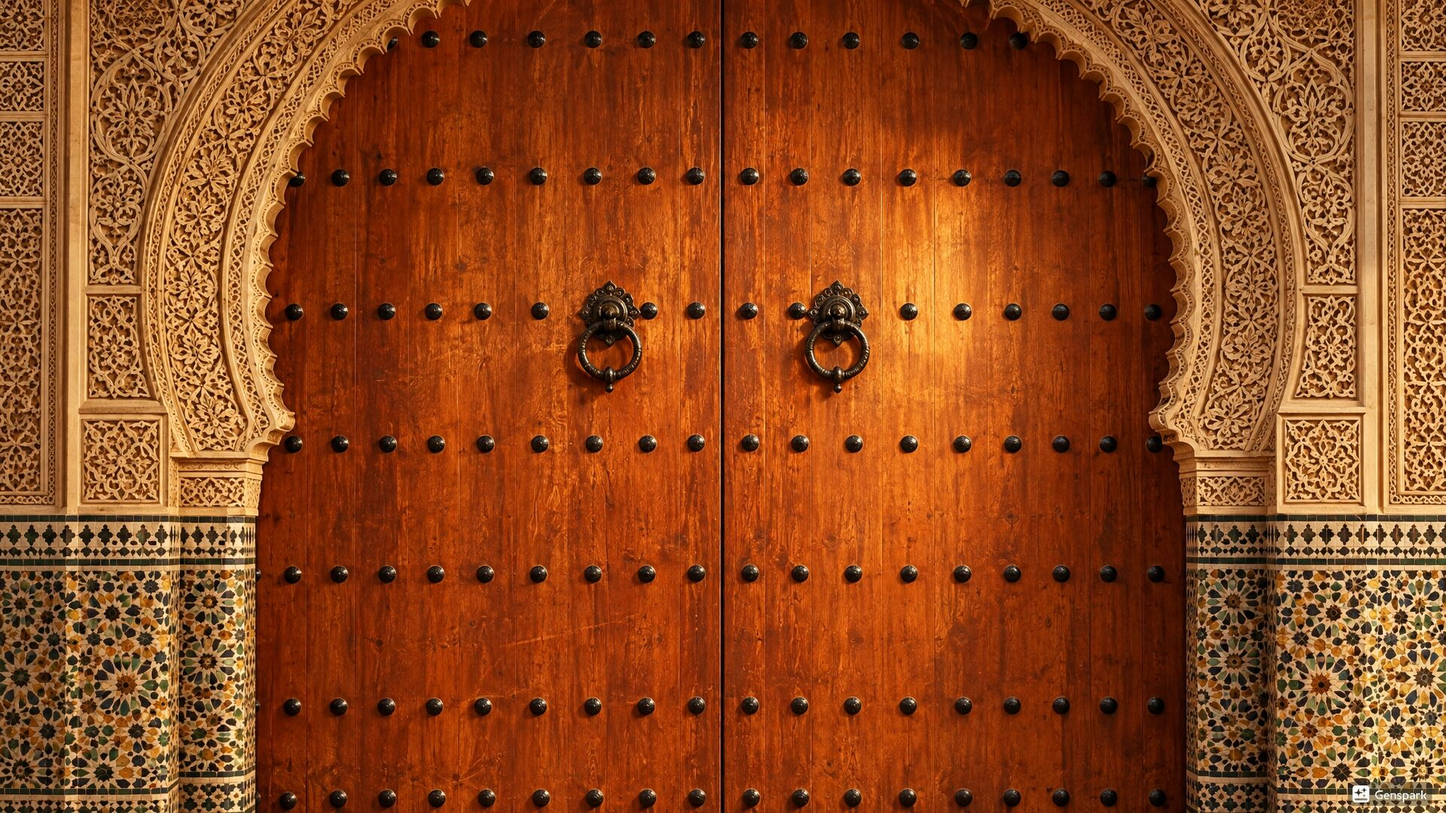
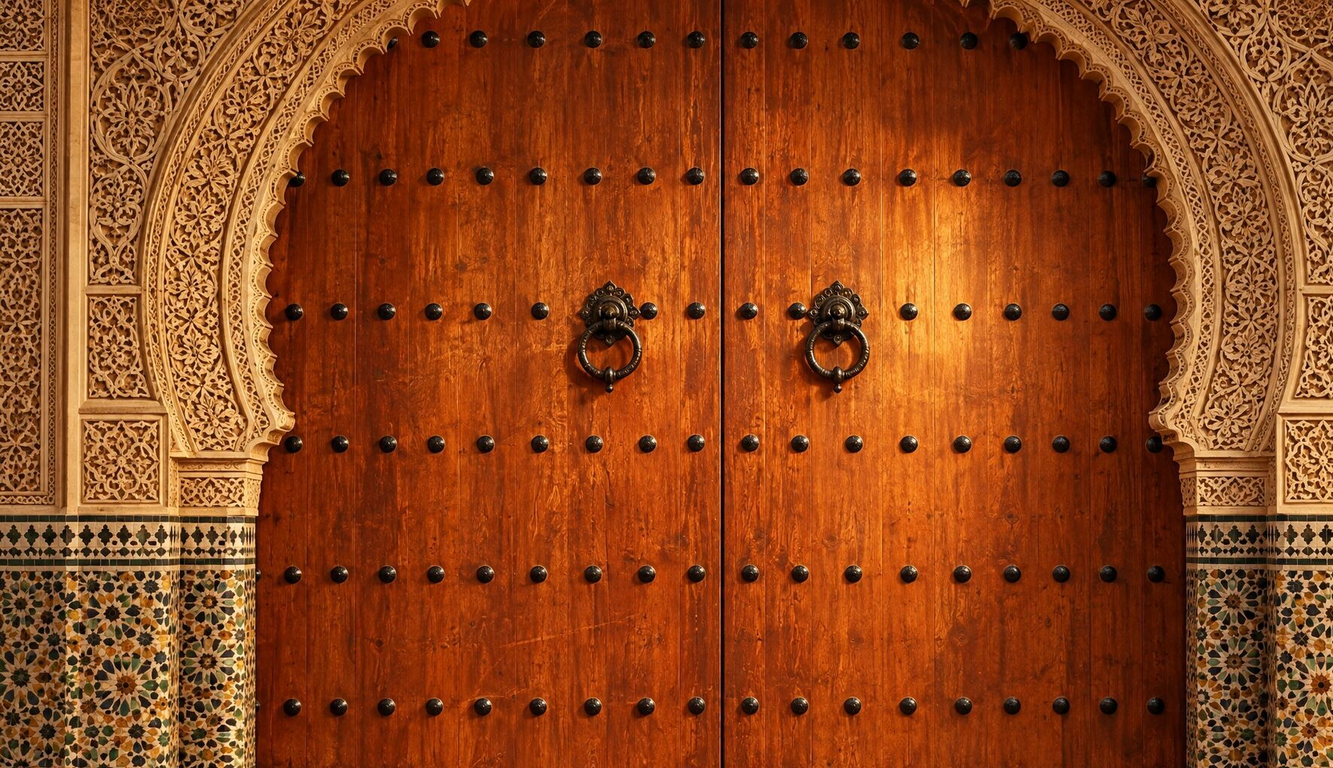
Move music credit to footer, remove watermark from portal photos

diff --git a/index.html b/index.html
@@ -37,7 +37,6 @@
   </button>
 
   <div class="bottom"><span>دار الياسمين</span><span>المغرب</span></div>
-  <a class="music-credit" href="https://freemusicarchive.org/music/timtaj/single/arabic-oud/" target="_blank" rel="noopener">الموسيقى: Arabic Oud — TimTaj · CC BY-NC-ND 4.0</a>
 </header>
 <button type="button" id="sound-toggle" class="sound-toggle" aria-pressed="false" hidden>
   <svg viewBox="0 0 24 24" width="20" height="20" fill="none" stroke="currentColor" stroke-width="1.7" stroke-linecap="round" stroke-linejoin="round" aria-hidden="true"><path d="M11 5 6 9H3v6h3l5 4Z"/><path class="sound-waves" d="M15 9a4 4 0 0 1 0 6m3-9a8 8 0 0 1 0 12"/><path class="sound-cross" d="m16 10 5 5m0-5-5 5"/></svg>
@@ -117,6 +116,7 @@
   <div class="rule" aria-hidden="true">✦</div>
   <p class="sign">ليلى وآدم</p>
   <a href="#cover" id="replay">العودة إلى الغلاف ↑</a>
+  <p class="music-credit">الموسيقى: <a href="https://freemusicarchive.org/music/timtaj/single/arabic-oud/" target="_blank" rel="noopener">Arabic Oud — TimTaj</a> · CC BY-NC-ND 4.0</p>
 </footer>
 </body>
 </html>

diff --git a/style.css b/style.css
@@ -139,5 +139,6 @@ main:focus{outline:none}
 .sound-toggle{position:fixed;z-index:12;inset-inline-start:max(12px,env(safe-area-inset-right));bottom:max(12px,env(safe-area-inset-bottom));display:inline-flex;align-items:center;gap:.45rem;padding:0 .8rem;min-height:44px;border:1px solid #e7c78e99;border-radius:999px;background:#13251df5;color:#fff0cb;font:inherit;cursor:pointer;box-shadow:0 3px 12px #0004}
 .sound-toggle:focus-visible{outline:3px solid #e7c78e;outline-offset:3px}
 .sound-toggle[aria-pressed="false"] .sound-waves,.sound-toggle[aria-pressed="true"] .sound-cross{display:none}
-.music-credit{position:absolute;z-index:7;bottom:5px;inset-inline:0;width:max-content;max-width:95%;margin:auto;color:#fff0cb;background:#17160ee6;padding:0 6px;font-size:12px}
-@media(max-width:640px){.music-credit{bottom:64px;max-width:80%}}
+.music-credit{margin-top:14px;font-size:15px;color:#8d7a55}
+.music-credit a{color:#8d7a55}
+@media(max-width:640px){.music-credit{max-width:80%;margin-inline:auto;line-height:1.6}}
